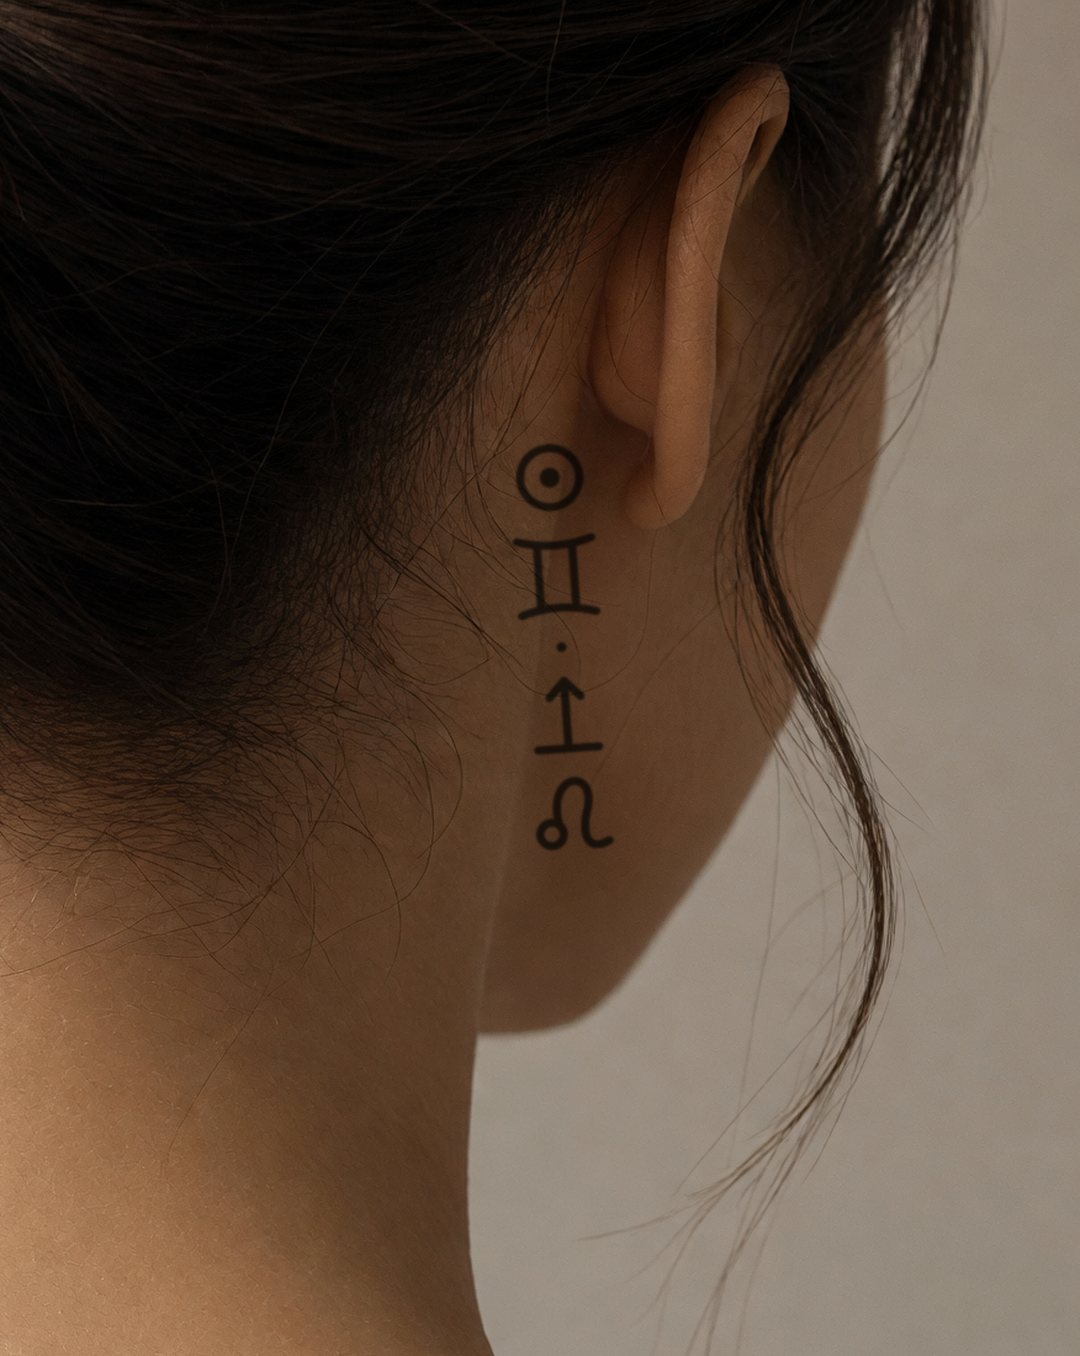
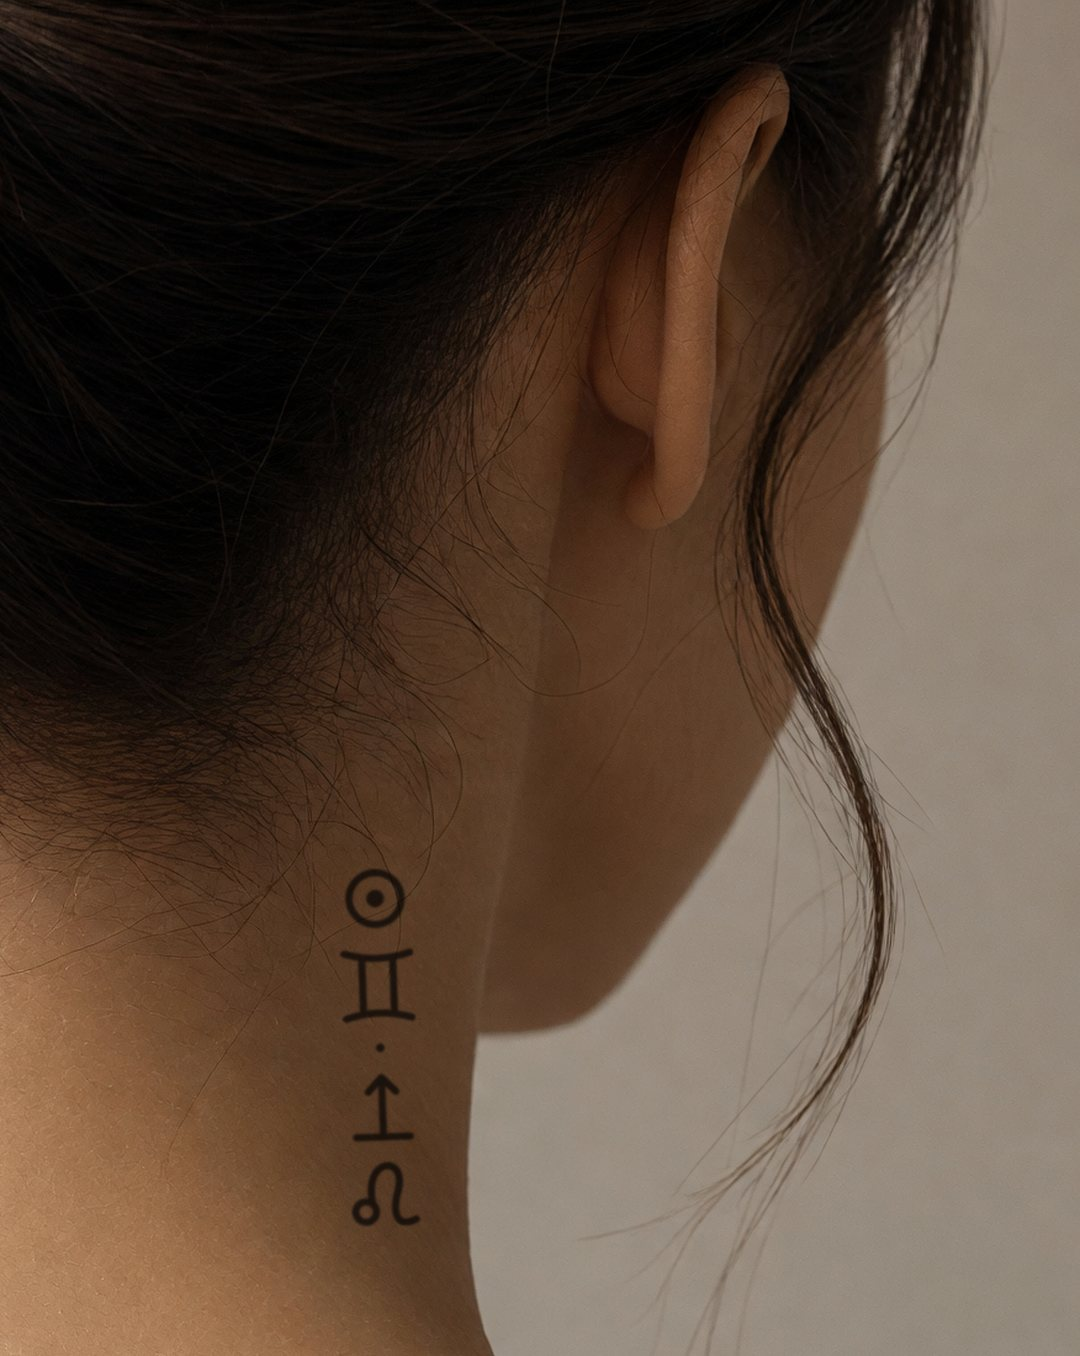
Woman's line on the side of the neck below the ear

Changed region(s): [[0.3056, 0.6195, 0.3972, 0.9292], [0.4583, 0.3097, 0.55, 0.4646], [0.4889, 0.4956, 0.55, 0.6504]]

diff --git a/index.html b/index.html
@@ -685,7 +685,7 @@
     <span class="label" data-t="ex.label">The tattoo flash</span>
     <h3 id="exTitle" data-t="ex.h">Your readings, worn</h3>
     <div class="ex-grid" id="exGrid">
-      <figure class="ex-sheet"><img src="media/examples/flash-sheet-example.jpg?v=9" alt="An example STAROT tattoo flash sheet with five designs" data-ta="ex.alt" loading="lazy">
+      <figure class="ex-sheet"><img src="media/examples/flash-sheet-example.jpg?v=10" alt="An example STAROT tattoo flash sheet with five designs" data-ta="ex.alt" loading="lazy">
         <figcaption data-t="ex.sheet">An example flash sheet: five designs from one birth chart and one name, ready to print.</figcaption></figure>
       <div class="ex-photos" id="exPhotos"></div>
     </div>
@@ -697,7 +697,7 @@
 
 <script>
 /* ═══ CONFIG — the only lines you need to edit (see docs/LAUNCH.md) ═══ */
-const MEDIA_V="9";   /* bump when a gallery or example image changes, so browsers fetch the new one */
+const MEDIA_V="10";   /* bump when a gallery or example image changes, so browsers fetch the new one */
 const mv=u=>u+(u.includes("?")?"&":"?")+"v="+MEDIA_V;
 const CONFIG={
   payApi:"",        // your payment worker, e.g. "https://starot-pay.yourname.workers.dev" — empty = tattoo files download free
@@ -715,8 +715,8 @@ const CONFIG={
      alt:"A row of four astrological symbols along a woman's inner forearm, above the wrist",altPt:"Uma linha de quatro símbolos astrológicos ao longo da parte interna do antebraço de uma mulher, acima do pulso"},
     {src:"media/gallery/wheel-calf-man.jpg",concept:true,caption:"Natal wheel · calf",captionPt:"Roda natal · panturrilha",
      alt:"A natal wheel tattoo on the back of a man's calf",altPt:"Tatuagem de roda natal na panturrilha de um homem"},
-    {src:"media/gallery/line-ear-woman.jpg",concept:true,caption:"Sun and Rising in one line · behind the ear",captionPt:"Sol e Ascendente numa linha · atrás da orelha",
-     alt:"Four astrological symbols in a vertical line behind a woman's ear",altPt:"Quatro símbolos astrológicos em linha vertical atrás da orelha de uma mulher"},
+    {src:"media/gallery/line-ear-woman.jpg",concept:true,caption:"Sun and Rising in one line · side of the neck",captionPt:"Sol e Ascendente numa linha · lateral do pescoço",
+     alt:"Four astrological symbols in a vertical line on the side of a woman's neck, below the ear",altPt:"Quatro símbolos astrológicos em linha vertical na lateral do pescoço de uma mulher, abaixo da orelha"},
     {src:"media/gallery/line-neck-man.jpg",concept:true,caption:"Sun and Rising in one line · back of the neck",captionPt:"Sol e Ascendente numa linha · nuca",
      alt:"A row of four astrological symbols low on the back of a man's neck",altPt:"Uma linha de quatro símbolos astrológicos na nuca de um homem"},
     {src:"media/gallery/numbers-obliques-woman.jpg",concept:true,caption:"Numbers as seals · along the side",captionPt:"Números em selos · na lateral do tronco",

diff --git a/tools/higgsfield/tattoos.ts b/tools/higgsfield/tattoos.ts
@@ -46,6 +46,8 @@ const SHOTS: Shot[] = [
     prompt: `A woman seated on a pale stone plinth, seen from the front, one leg forward, the front of her thigh clearly visible from knee to hip, wearing black high-waisted tailored shorts, smooth even skin on the front of the thigh. No tattoos, no jewellery. ${STUDIO}` },
   { id: "calf-plate-man", refs: [], aspect: "3:4",
     prompt: `A man's lower leg seen straight from behind, standing on a pale stone plinth, the back of his calf clearly visible from the back of the knee to the ankle, neutral linen shorts just visible at the top, smooth skin with light natural hair. No tattoos, no jewellery, no socks. ${STUDIO}` },
+  { id: "neck-side-plate-woman", refs: [], aspect: "3:4",
+    prompt: `Side profile portrait of a woman, seen from her right side, head turned slightly away from the camera, hair gathered up in a low bun, the side of her neck below and behind the ear clearly visible and well lit, from the ear down to the collarbone, wearing a black silk top with thin straps. No tattoos, no jewellery, no earrings. ${STUDIO}` },
   { id: "wheel-calf-man", refs: ["design-1-natal-wheel.png"], aspect: "3:4",
     prompt: `${TATTOO} A man's lower leg seen from behind and slightly to the side, the round natal-wheel tattoo about 12 cm wide on the back of his calf, standing on a plinth, bare leg, neutral linen shorts just visible. ${STUDIO}` },
   { id: "wheel-forearm-woman", refs: ["design-1-natal-wheel.png"], aspect: "3:4",

diff --git a/tools/higgsfield/composite-neck.py b/tools/higgsfield/composite-neck.py
@@ -17,8 +17,8 @@ DESIGN = DES / "design-4-sun-and-rising-gemini-leo.png"
 # layout ("row" as drawn, or "stack": the symbols upright, one under the other), crop box or None
 PLACES = [
     ("neck-plate-man-v13.png", "neck-composite-man.png", (895, 1370), 330, 0, "row", None),
-    # hers runs down behind the right ear, from beside the ear to below the lobe; close-up crop
-    ("neck-plate-woman-clean.png", "ear-composite-woman.png", (1305, 525), 330, 4, "stack", (850, 0, 1726, 1100)),
+    # hers runs down the side of the neck below the right ear, behind the jaw; close-up crop
+    ("neck-plate-woman-clean.png", "ear-composite-woman.png", (1158, 850), 290, 2, "stack", (850, 0, 1726, 1100)),
 ]
 INK = (26, 28, 34)
 STRENGTH = 1.6

diff --git a/docs/MEDIA.md b/docs/MEDIA.md
@@ -44,7 +44,8 @@ The neck line goes the same way (`neck-plate-man`, then `python3 tools/higgsfiel
 because the model keeps redrawing the ascendant ↑ as ♐. The woman's bare-back plate is refused by
 the moderation filter, so her plate is an earlier tattoo render with the AI tattoo patched out
 (`neck-plate-woman-clean.png`, a skin patch from just below, blended with OpenCV `seamlessClone`); her line
-is restacked upright and runs down behind her ear, in a close-up crop.
+is restacked upright and runs down the side of her neck below the ear, in a close-up crop. A side-profile plate
+(`neck-side-plate-woman`) is ready to render once credits are topped up.
 The calf wheel and the woman's inner-forearm line come from earlier renders too
 (`python3 tools/higgsfield/composite-wheel-forearm.py`): the AI wheel inpainted off the calf, and the
 forearm render cropped below its wheel. Still to shoot once credits are topped up: the wheel on a
